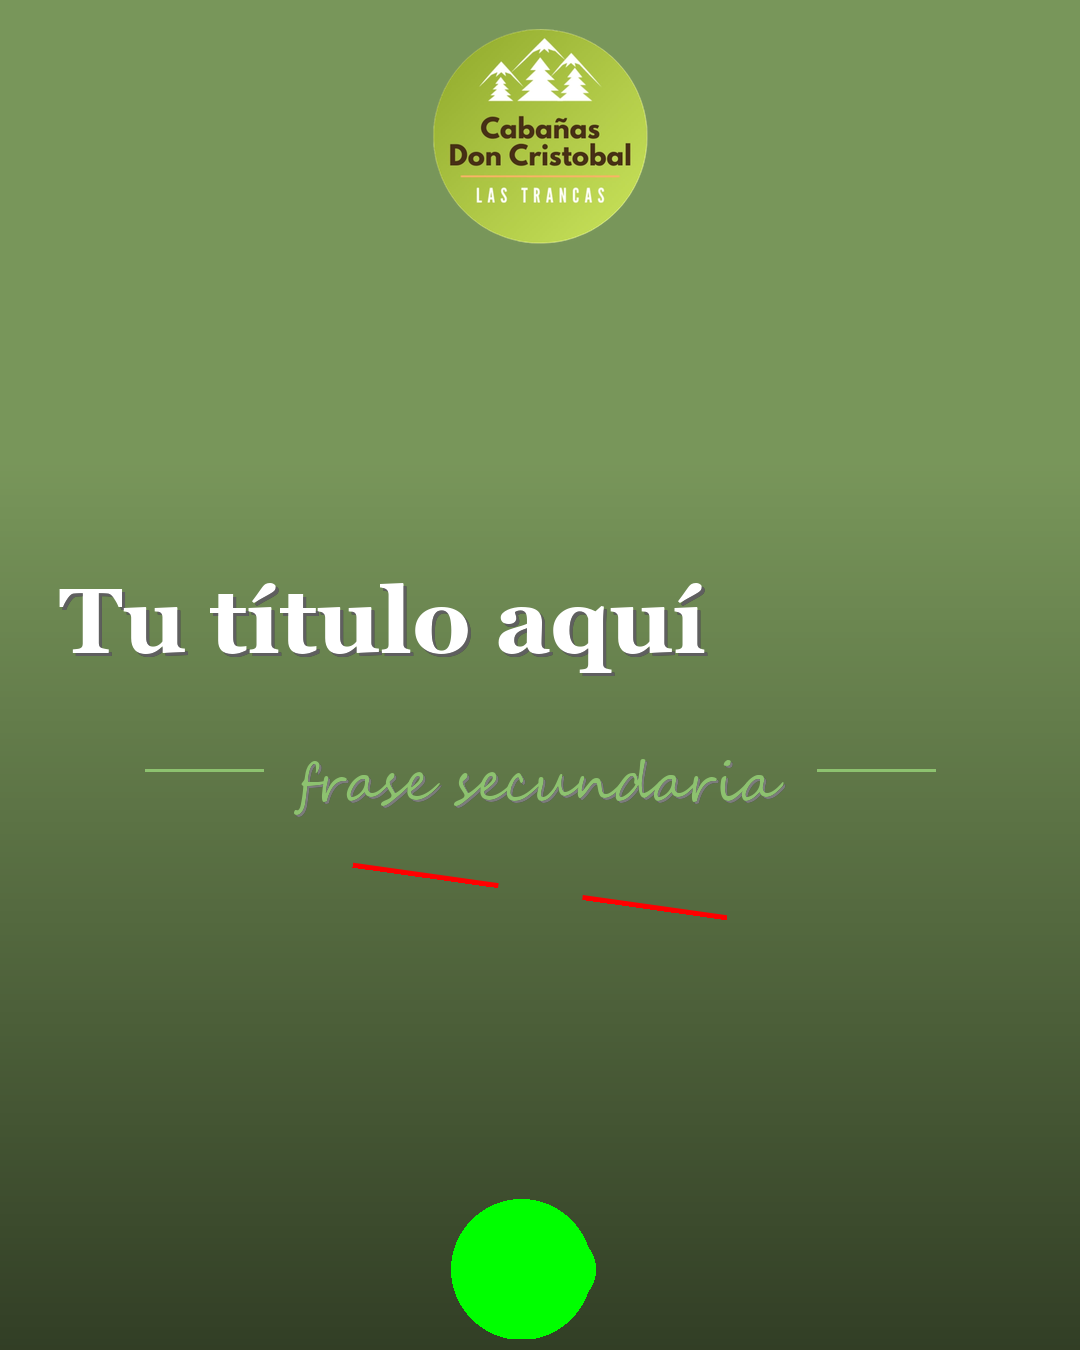
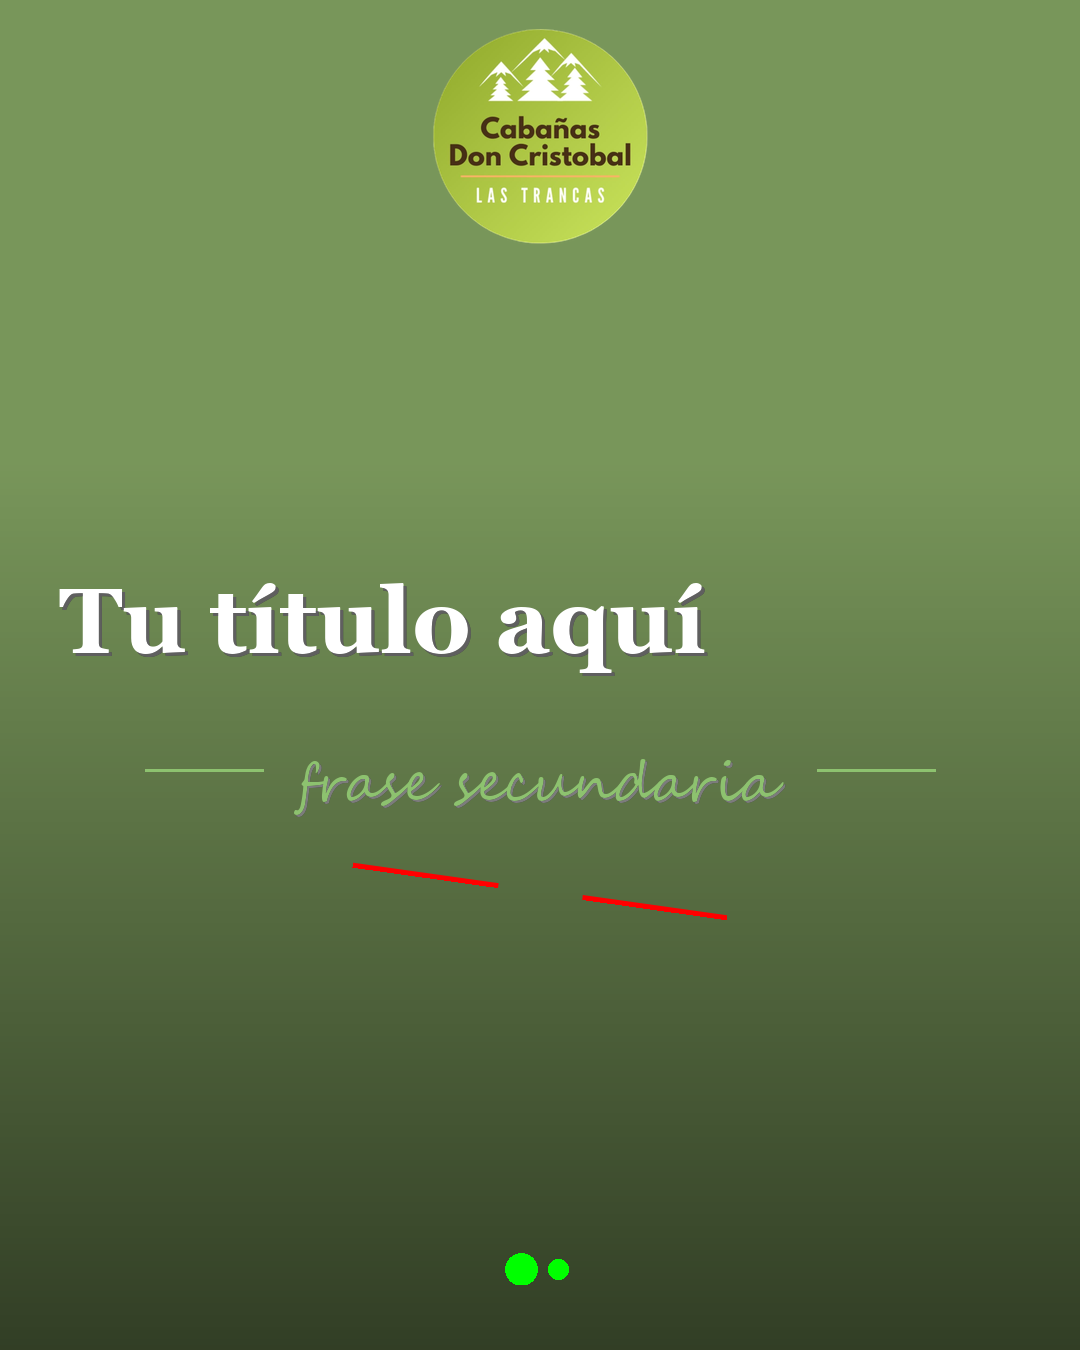
fix: corregir superposicion de puntos y indice activo en miniaturas
Los radios de DotsLayer eran una fraccion fija de W, mayor que todo el
rango del slider de spacing, por lo que los puntos se fusionaban en
una mancha a resolucion real. Ahora se recortan al spacing disponible.

_build_layers_for usaba self.current_slide_index para el punto activo
en vez del indice real de la lamina recibida, por lo que el panel de
miniaturas resaltaba el punto equivocado en laminas no activas.

Se agrega tambien cobertura de round-trip to_dict/from_dict para
LineLayer y DotsLayer (pedida por la tarea A1/B1 original).

Changed region(s): [[0.3972, 0.8711, 0.55, 0.9956]]

diff --git a/tests/test_render.py b/tests/test_render.py
@@ -546,11 +546,18 @@ class TestDotsLayerRender(unittest.TestCase):
         img, bboxes = compose([self._layer()], (100, 100), self._font_manager())
 
         self.assertIn("puntos", bboxes)
+        # Los 3 centros (2 puntos base + 1 activo) deben estar pintados.
         self.assertEqual(img.getpixel((40, 50)), (0, 255, 0, 255))
         self.assertEqual(img.getpixel((50, 50)), (0, 255, 0, 255))
         self.assertEqual(img.getpixel((60, 50)), (0, 255, 0, 255))
-        self.assertEqual(img.getpixel((50, 44)), (0, 255, 0, 255))
-        self.assertEqual(img.getpixel((40, 44)), (0, 0, 0, 0))
+        # El punto activo (x=50) debe tener mayor radio vertical que uno
+        # base (x=40): se mide cuantos pixeles opacos hay en cada columna,
+        # sin asumir un radio fijo en pixeles.
+        opaque_active = sum(1 for y in range(30, 70) if img.getpixel((50, y))[3] > 0)
+        opaque_base = sum(1 for y in range(30, 70) if img.getpixel((40, y))[3] > 0)
+        self.assertGreater(opaque_active, opaque_base)
+        # Bien por fuera de cualquier circulo debe quedar transparente.
+        self.assertEqual(img.getpixel((40, 30)), (0, 0, 0, 0))
 
     def test_dots_opacity_zero_keeps_bbox_but_draws_no_pixels(self):
         from dcpub.render import compose
@@ -558,6 +565,28 @@ class TestDotsLayerRender(unittest.TestCase):
 
         self.assertIn("puntos", bboxes)
         self.assertIsNone(img.getbbox())
+
+    def test_dots_render_as_discrete_circles_at_realistic_canvas_width(self):
+        """A resolucion real (1080), los radios fijos en fraccion de W
+        superaban el rango completo del slider de spacing, fusionando los
+        puntos en una sola mancha. Los puntos deben verse como circulos
+        separados en el spacing por defecto (0.025)."""
+        from dcpub.render import compose
+        W = 1080
+        count = 5
+        img, bboxes = compose(
+            [self._layer(count=count, active=2, spacing=0.025)], (W, W), self._font_manager())
+        x0, y0, x1, y1 = bboxes["puntos"]
+        mid_y = (y0 + y1) // 2
+        opaque = [img.getpixel((x, mid_y))[3] > 0 for x in range(x0, x1)]
+        runs = 0
+        previous = False
+        for is_opaque in opaque:
+            if is_opaque and not previous:
+                runs += 1
+            previous = is_opaque
+        self.assertEqual(runs, count,
+                          "los puntos deben verse como circulos separados, no una mancha continua")
 
 
 class TestTrackedTextHelpers(unittest.TestCase):

diff --git a/tests/test_app_slides.py b/tests/test_app_slides.py
@@ -658,6 +658,7 @@ class TestBuildLayersForDotsLayer(unittest.TestCase):
         from dcpub.models import DotsLayer
         app = _make_app_with_two_slides()
         app.current_slide_index = 1
+        app.slide = app.project.slides[1]
         dots = DotsLayer(name="Puntos", z=10, x=0.5, y=0.9,
                          color=[1, 2, 3, 200], spacing=0.04,
                          opacity=0.7)
@@ -671,6 +672,23 @@ class TestBuildLayersForDotsLayer(unittest.TestCase):
         self.assertEqual(dots_dict["color"], [1, 2, 3, 200])
         self.assertEqual(dots_dict["spacing"], 0.04)
         self.assertEqual(dots_dict["opacity"], 0.7)
+
+    def test_build_layers_for_non_active_slide_uses_that_slides_own_index(self):
+        """Reproduce el bug de miniaturas: SlidesPanel llama
+        _build_layers_for(slide) para CADA lámina del panel, no solo la
+        activa. El punto activo debe reflejar la posición de esa lámina
+        dentro de project.slides, no self.current_slide_index (que sigue
+        apuntando a la lámina que el usuario tiene seleccionada)."""
+        from dcpub.models import DotsLayer
+        app = _make_app_with_two_slides()
+        app.current_slide_index = 0
+        segunda = app.project.slides[1]
+        segunda.layers.append(DotsLayer(name="Puntos", z=10))
+
+        layers = App._build_layers_for(app, segunda)
+
+        dots_dict = next(layer for layer in layers if layer["type"] == "dots")
+        self.assertEqual(dots_dict["active"], 1)
 
 
 class TestAddDotsLayer(unittest.TestCase):

diff --git a/dcpub/render.py b/dcpub/render.py
@@ -680,8 +680,13 @@ def compose(layers, canvas_size, font_manager, palette=None):
             cx = int(layer.get("x", 0.5) * W)
             cy = int(layer.get("y", 0.5) * H)
             spacing_px = max(1, int(W * layer.get("spacing", 0.025)))
-            base_r = max(3, int(W * 0.035))
-            active_r = max(base_r + 2, int(W * 0.065))
+            # El radio de marca (fraccion de W) es el tamaño preferido, pero
+            # se recorta al spacing disponible para que los puntos nunca se
+            # superpongan entre si, sea cual sea el spacing elegido.
+            base_r = max(2, min(int(W * 0.035), int(spacing_px * 0.28)))
+            active_r = max(base_r + 1, min(int(W * 0.065), int(spacing_px * 0.45)))
+            if count > 1:
+                active_r = min(active_r, max(base_r + 1, spacing_px - base_r))
             total_w = spacing_px * (count - 1) + active_r * 2
             total_h = active_r * 2
             dots_layer = Image.new("RGBA", (total_w, total_h), (0, 0, 0, 0))

diff --git a/dcpub/app.py b/dcpub/app.py
@@ -1684,7 +1684,7 @@ class App(tk.Tk):
                 layers.append({"type": "dots", "key": layer.id,
                                 "x": layer.x, "y": layer.y,
                                 "count": len(self.project.slides),
-                                "active": self.current_slide_index,
+                                "active": self.project.slides.index(slide),
                                 "color": layer.color, "spacing": layer.spacing,
                                 "opacity": layer.opacity})
         return layers

diff --git a/tests/test_models_layer.py b/tests/test_models_layer.py
@@ -140,6 +140,8 @@ class TestLayerFromDict(unittest.TestCase):
             BoxLayer(text="D", icon="corazón", fill=[1, 2, 3, 100],
                      text_color=[4, 5, 6, 200]),
             CTALayer(text="Reservá ahora", fill=[9, 9, 9, 200]),
+            LineLayer(length=0.30, thickness=0.008, color=[7, 8, 9, 250], gap=0.05),
+            DotsLayer(color=[10, 11, 12, 240], spacing=0.04),
         ]
         for layer in layers:
             restored = layer_from_dict(layer.to_dict())